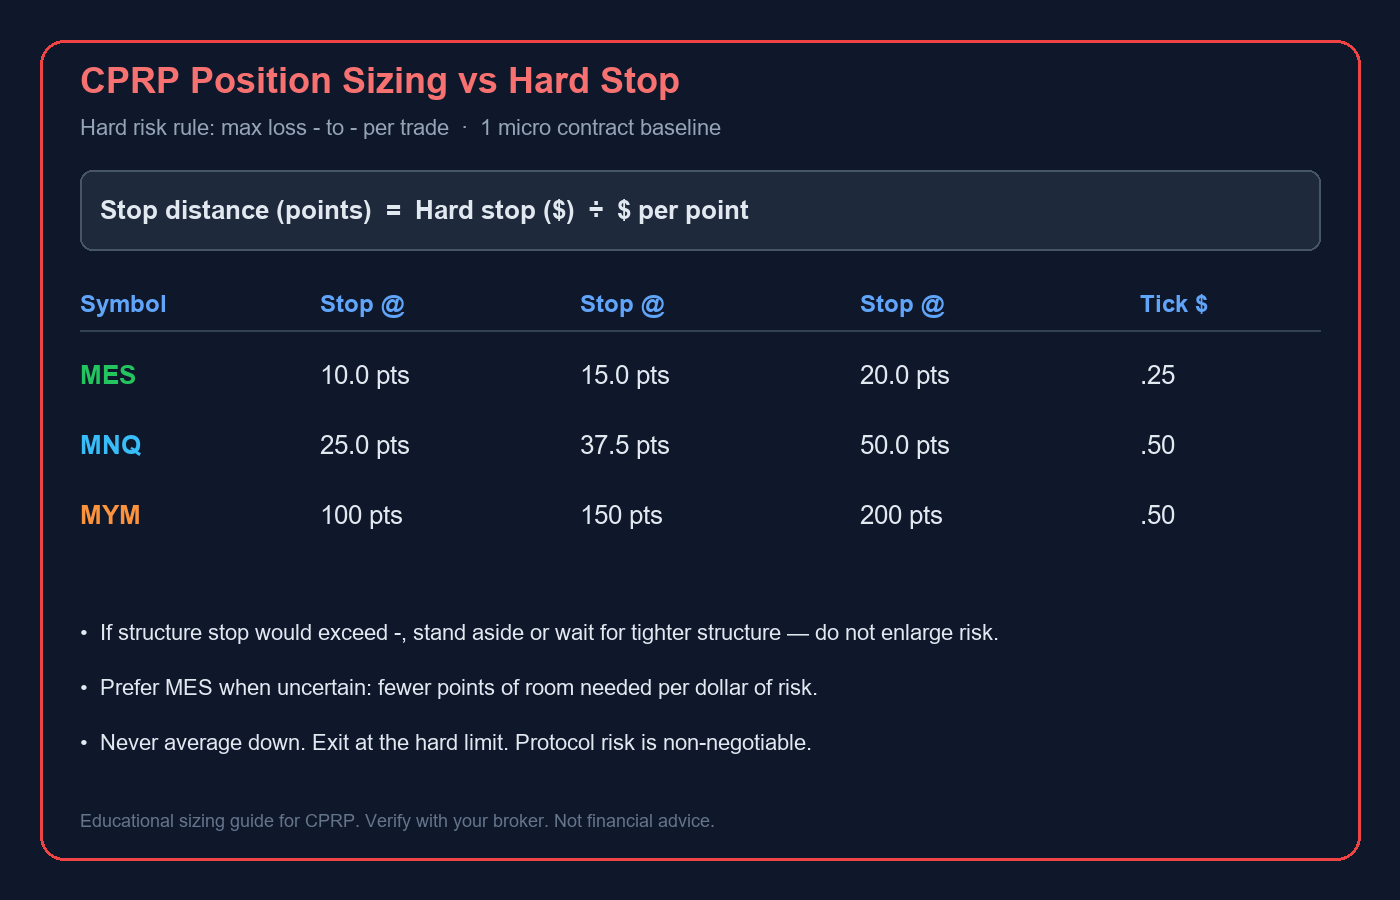
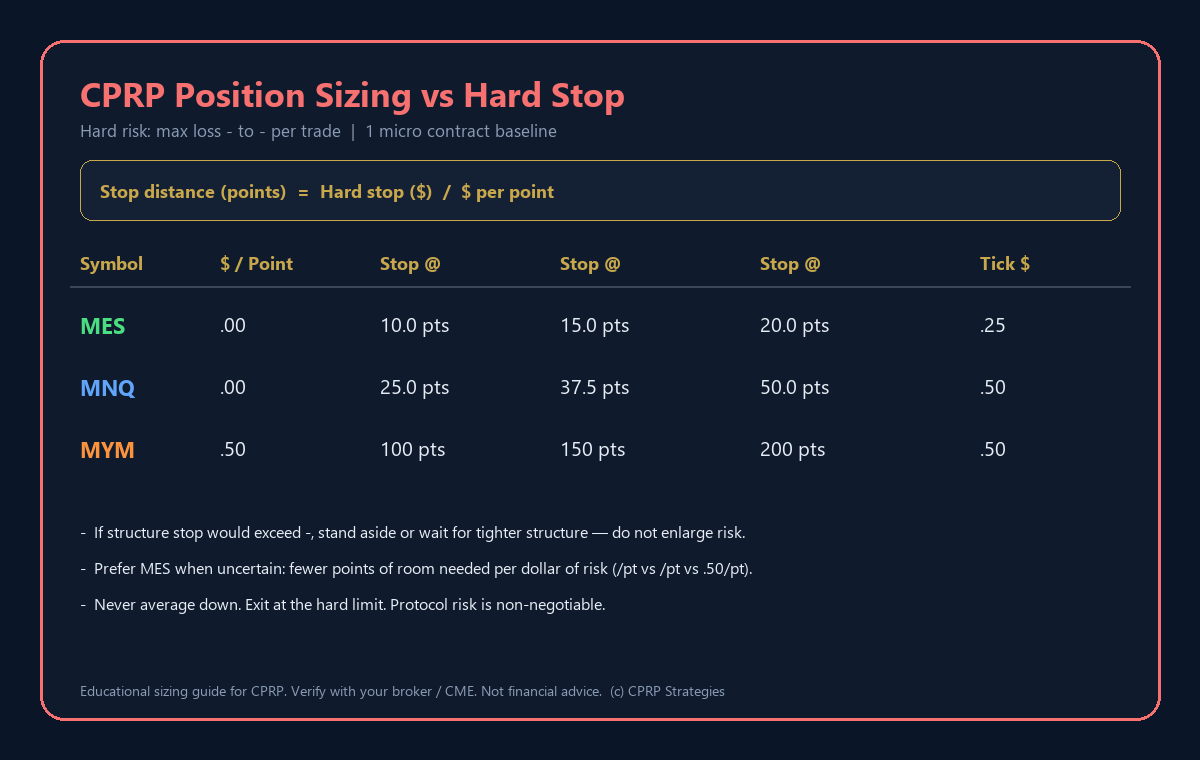
Micro E-mini: fix $/point display (MES \, MNQ \, MYM \.50 CME) and education images

diff --git a/micros_guide.py b/micros_guide.py
@@ -2,6 +2,11 @@
 Micro E-mini Futures education panel for CPRP.
 
 Explains what micros are, tick values, and position sizing under the hard-stop rule.
+$/point values from CME Group (and matching Ironbeam published specs):
+
+  MES  — $5.00 per index point  (tick 0.25 → $1.25)
+  MNQ  — $2.00 per index point  (tick 0.25 → $0.50)
+  MYM  — $0.50 per index point  (tick 1.00 → $0.50)
 """
 
 from __future__ import annotations
@@ -20,7 +25,7 @@ from config import (
     PROTOCOL_SHORT,
 )
 from disclosure import render_disclosure, render_third_party_disclosure
-from wallstreet_ui import candle_expander, desk_section, page_hero
+from wallstreet_ui import candle_expander, desk_section, link_label, page_hero
 
 EDU_DIR = Path(__file__).resolve().parent / "assets" / "education"
 
@@ -28,9 +33,20 @@ OVERVIEW_IMG = EDU_DIR / "micro_emini_overview.png"
 TICKS_IMG = EDU_DIR / "micro_tick_values.png"
 SIZING_IMG = EDU_DIR / "micro_position_sizing.png"
 
+# CME reference links (public contract pages)
+CME_MES_URL = "https://www.cmegroup.com/markets/equities/sp/micro-e-mini-sandp-500.html"
+CME_MNQ_URL = "https://www.cmegroup.com/markets/equities/nasdaq/micro-e-mini-nasdaq-100.html"
+CME_MICROS_URL = "https://www.cmegroup.com/markets/equities/micro-emini-equity.html"
+IRONBEAM_SPECS_URL = "https://www.ironbeam.com/micro-e-mini-futures-contract-specs/"
+
 
 def _stop_pts(point_value: float, hard_stop: float) -> float:
     return hard_stop / point_value if point_value else 0.0
+
+
+def _money(v: float) -> str:
+    """Format dollars clearly (always show two decimals + $)."""
+    return f"${v:,.2f}"
 
 
 def render_micros_guide_panel() -> None:
@@ -53,11 +69,11 @@ dollar risk per point**, so traders can size risk more precisely under a fixed h
 
 Under CPRP you trade **micros only**:
 
-| Symbol | Name | Role in CPRP |
-|--------|------|----------------|
-| **MES** | Micro E-mini S&P 500 | **Primary** default |
-| **MNQ** | Micro E-mini Nasdaq-100 | Secondary — when clearly superior |
-| **MYM** | Micro E-mini Dow | Tertiary — lower $ volatility option |
+| Symbol | Name | Role in CPRP | **$ / Point** (CME) |
+|--------|------|----------------|---------------------|
+| **MES** | Micro E-mini S&P 500 | **Primary** default | **$5.00** |
+| **MNQ** | Micro E-mini Nasdaq-100 | Secondary — when clearly superior | **$2.00** |
+| **MYM** | Micro E-mini Dow | Tertiary — lower $ volatility option | **$0.50** |
 
 No full-size contracts (ES, NQ, YM, etc.) are part of this protocol.
 """
@@ -65,17 +81,20 @@ No full-size contracts (ES, NQ, YM, etc.) are part of this protocol.
         if OVERVIEW_IMG.is_file():
             st.image(str(OVERVIEW_IMG), use_container_width=True, caption="Micro E-mini overview")
 
-    desk_section("Contract specifications", side="bull")
-    with candle_expander("Tick values (CME reference)", side="bull", expanded=False, kind="page"):
+    desk_section("Contract specifications (CME)", side="bull")
+    with candle_expander("Tick values & $ per point (CME reference)", side="bull", expanded=True, kind="page"):
         st.markdown(
             """
-A **tick** is the minimum price increment. **Tick value** is how many dollars you gain or lose
-when price moves one tick (for one contract).
+A **point** is one full index point. **$ / point** is how many dollars one contract gains or loses  
+when the index moves **one full point**.
+
+A **tick** is the minimum price increment. **Tick value** = min tick size × $ / point.
+
+### CME Micro E-mini values (each contract is different)
 """
         )
-        if TICKS_IMG.is_file():
-            st.image(str(TICKS_IMG), use_container_width=True, caption="Tick values — MES / MNQ / MYM")
 
+        # Primary clear table — values from config (aligned to CME / Ironbeam)
         rows = []
         for short in ("MES", "MNQ", "MYM"):
             inst = INSTRUMENTS[short]
@@ -83,15 +102,63 @@ when price moves one tick (for one contract).
                 {
                     "Symbol": short,
                     "Contract": inst.name,
-                    "$ / point": f"${inst.point_value:.2f}",
-                    "Min tick": f"{inst.tick_size:g} pt",
-                    "Tick value": f"${inst.tick_value:.2f}",
+                    "$ / Point": _money(inst.point_value),
+                    "Min tick (pts)": f"{inst.tick_size:g}",
+                    "Tick value": _money(inst.tick_value),
+                    "Check": (
+                        f"{inst.tick_size:g} × {_money(inst.point_value)} "
+                        f"= {_money(inst.tick_size * inst.point_value)}"
+                    ),
                 }
             )
         st.dataframe(rows, use_container_width=True, hide_index=True)
+
+        st.markdown(
+            f"""
+| Symbol | Multiplier (CME) | Min tick | Tick value | Why it differs |
+|--------|------------------|----------|------------|----------------|
+| **MES** | **$5** × S&P 500 Index | 0.25 pt | **$1.25** | 1/10 of full ES ($50/pt) |
+| **MNQ** | **$2** × Nasdaq-100 Index | 0.25 pt | **$0.50** | 1/10 of full NQ ($20/pt) |
+| **MYM** | **$0.50** × Dow Jones Index | 1.00 pt | **$0.50** | 1/10 of full YM ($5/pt) |
+
+**Examples (1 contract)**  
+- MES moves **+10 points** → **+$50** (10 × $5.00)  
+- MNQ moves **+10 points** → **+$20** (10 × $2.00)  
+- MYM moves **+10 points** → **+$5** (10 × $0.50)
+"""
+        )
+
+        if TICKS_IMG.is_file():
+            st.image(
+                str(TICKS_IMG),
+                use_container_width=True,
+                caption="Tick values — MES $5.00 · MNQ $2.00 · MYM $0.50 per point (CME)",
+            )
+
+        st.markdown("##### Official / broker reference (free public pages)")
+        c1, c2, c3 = st.columns(3)
+        with c1:
+            st.link_button(
+                link_label("CME Micro E-mini hub"),
+                CME_MICROS_URL,
+                use_container_width=True,
+            )
+        with c2:
+            st.link_button(
+                link_label("CME MES contract"),
+                CME_MES_URL,
+                use_container_width=True,
+            )
+        with c3:
+            st.link_button(
+                link_label("Ironbeam Micro specs"),
+                IRONBEAM_SPECS_URL,
+                use_container_width=True,
+            )
         st.caption(
-            "Always confirm live contract specifications with your broker and the CME. "
-            "Specifications can change."
+            "Values above match CME Group published multipliers and Ironbeam’s Micro E-mini specs table. "
+            "Always re-confirm live contract specifications with your broker and CME before trading — "
+            "specifications can change."
         )
 
     with candle_expander("Position sizing under the CPRP hard stop", side="bear", expanded=True, kind="down"):
@@ -102,17 +169,13 @@ CPRP hard risk rule (non-negotiable):
 - **Max loss per trade: −${HARD_STOP_MIN_USD:.0f} to −${HARD_STOP_MAX_USD:.0f}**
 - Exit immediately at the limit · **no averaging down**
 
-**Stop distance (index points)** for one micro contract:
+**Stop distance (index points)** for **one** micro contract:
 
 `points = hard_stop_dollars ÷ dollars_per_point`
+
+Because **$ / point differs by product**, the same hard stop allows a **different** number of points on each micro:
 """
         )
-        if SIZING_IMG.is_file():
-            st.image(
-                str(SIZING_IMG),
-                use_container_width=True,
-                caption="Position sizing vs CPRP hard stop (−$50 / −$75 / −$100)",
-            )
 
         size_rows = []
         for short in ("MES", "MNQ", "MYM"):
@@ -120,20 +183,43 @@ CPRP hard risk rule (non-negotiable):
             size_rows.append(
                 {
                     "Symbol": short,
-                    f"Stop @ ${HARD_STOP_MIN_USD:.0f}": f"{_stop_pts(inst.point_value, HARD_STOP_MIN_USD):.1f} pts",
-                    f"Stop @ ${HARD_STOP_DEFAULT_USD:.0f}": f"{_stop_pts(inst.point_value, HARD_STOP_DEFAULT_USD):.1f} pts",
-                    f"Stop @ ${HARD_STOP_MAX_USD:.0f}": f"{_stop_pts(inst.point_value, HARD_STOP_MAX_USD):.1f} pts",
-                    "Tick $": f"${inst.tick_value:.2f}",
+                    "$ / Point": _money(inst.point_value),
+                    f"Stop @ {_money(HARD_STOP_MIN_USD)}": f"{_stop_pts(inst.point_value, HARD_STOP_MIN_USD):.1f} pts",
+                    f"Stop @ {_money(HARD_STOP_DEFAULT_USD)}": f"{_stop_pts(inst.point_value, HARD_STOP_DEFAULT_USD):.1f} pts",
+                    f"Stop @ {_money(HARD_STOP_MAX_USD)}": f"{_stop_pts(inst.point_value, HARD_STOP_MAX_USD):.1f} pts",
+                    "Tick $": _money(inst.tick_value),
                 }
             )
         st.dataframe(size_rows, use_container_width=True, hide_index=True)
 
         st.markdown(
             f"""
+| Symbol | $ / Point | Max stop width @ −$100 | Meaning |
+|--------|-----------|------------------------|---------|
+| **MES** | **$5.00** | **20.0 points** | Tighter structure needed than MNQ/MYM |
+| **MNQ** | **$2.00** | **50.0 points** | More room in points, same dollar risk |
+| **MYM** | **$0.50** | **200 points** | Widest point allowance for −$100 |
+
+Example: hard stop **−$75**  
+- MES → 75 ÷ 5.00 = **15.0 pts**  
+- MNQ → 75 ÷ 2.00 = **37.5 pts**  
+- MYM → 75 ÷ 0.50 = **150 pts**
+"""
+        )
+
+        if SIZING_IMG.is_file():
+            st.image(
+                str(SIZING_IMG),
+                use_container_width=True,
+                caption="Position sizing vs CPRP hard stop (−$50 / −$75 / −$100) using CME $ / point",
+            )
+
+        st.markdown(
+            f"""
 ### Practical CPRP sizing rules
 
 1. **Structure first** — only trade if the stop fits **inside** the −${HARD_STOP_MIN_USD:.0f} to −${HARD_STOP_MAX_USD:.0f} band.  
-2. **Prefer MES** when uncertain — fewer points of stop distance per dollar of risk.  
+2. **Prefer MES** when uncertain — fewer points of stop distance per dollar of risk ($5/pt).  
 3. **If the structure is too wide** for −${HARD_STOP_MAX_USD:.0f}, **stand aside**.  
 4. **Never average down** to “make room.”  
 5. **One trade, one hard limit** — integrity over recovery.
@@ -147,12 +233,14 @@ you must still keep **total** risk per trade inside −${HARD_STOP_MIN_USD:.0f} 
         st.markdown(
             """
 This app ranks **MES / MNQ / MYM** for range/channel-reversion conditions and checks whether
-visible structure width roughly fits your hard dollar stop. **You** still confirm structure
-and place orders on your own platform/broker. This tool does **not** place orders.
+visible structure width roughly fits your hard dollar stop (using each micro’s **different**
+$ / point). **You** still confirm structure and place orders on your own platform/broker.
+This tool does **not** place orders.
 """
         )
 
     st.caption(
         f"Educational content for {PROTOCOL_SHORT} members. "
+        f"Contract multipliers: CME MES $5/pt · MNQ $2/pt · MYM $0.50/pt. "
         f"© {CREATOR}. Not financial advice. Futures trading involves substantial risk of loss."
     )
